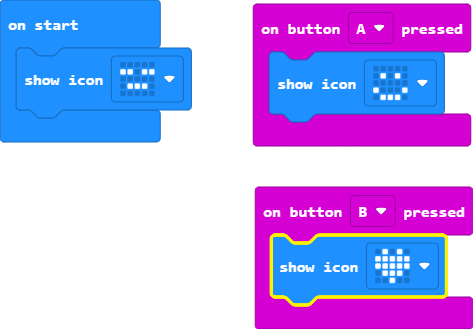
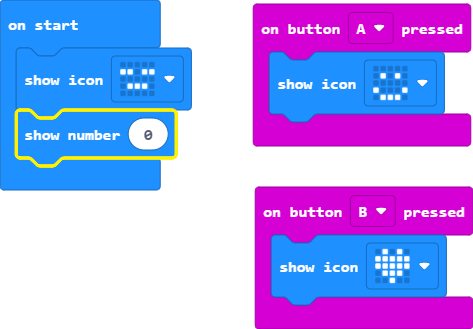
Update main.blocks, main.ts

Changed region(s): [[0.0, 0.304, 0.3848, 0.5775], [0.5624, 0.6991, 0.9471, 0.9422]]

diff --git a/main.ts b/main.ts
@@ -5,3 +5,4 @@ input.onButtonPressed(Button.B, function () {
     basic.showIcon(IconNames.Heart)
 })
 basic.showIcon(IconNames.Asleep)
+basic.showNumber(0)
